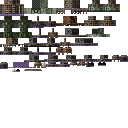
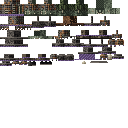
revenant: the spike record says what was measured; legacy sheets put back
The review found the inner spike still adds 1.71 into the coif at stun_upper tick 0
(was 2.52), hidden under the pauldron_cap row. Two probes moving it outward were
worse (2.26, 2.15), so the 1 px shortening stays and the exemption and the review
doc now say reduced, not gone. art/troops/revenant_s2/s3.png are back at their
earlier bytes (install drift, not part of the fix).

diff --git a/docs/anim-rebuild/REVENANT-REVIEW.md b/docs/anim-rebuild/REVENANT-REVIEW.md
@@ -148,10 +148,15 @@ Kort chose to fix the recorded shoulder-spike debt in the model ("Shoulder spike
 spike)"). The inner spike of `right_spike2` (tiers II and III) is 1 px shorter: 1 x 2 x 1 in place of 1 x 3 x 1, its
 root where it was (`art/hand/revenant/build_revenant.py`). The outer spike and the left shoulder are unchanged.
 
-- stun_upper `coif into right_spike2` 2.52: gone. The clip's worst armour row is now `coif into pauldron_cap` 2.25 at
+- stun_upper `coif into right_spike2`: 2.52 down to 1.71 at tick 0 (the WARN line is 1.7), not gone. It is no longer
+  the clip's worst row, so the focus check does not print it (`fit_pairs.py --part right_spike2` does). Moving the
+  spike 1 px and 2 px outward made it worse (2.26, 2.15: the rest overlap goes and the slump still reaches it), so
+  the 1 px shortening stays. Found by the review (`review_modelfix_a.md`). The clip's worst armour row is now `coif into pauldron_cap` 2.25 at
   tick 4, which the spike row had hidden: the coif sinks into the tier III left pauldron plate in the slump. Three model
   probes (the cap's small spike 1 px out, its tall spike 1 px shorter, the plate's inner edge 1 px in) did not clear it;
   the last made it worse (2.48). The plate is not a spike, so it stays as it is and the exemption now names it.
 - Clips: byte-identical (the layer was re-run). Timing untouched. Scorecard 42 clips, 0 failing. Focus check 0 FAIL rows.
+- The legacy sheets `art/troops/revenant_s2.png` and `_s3.png` went into the first commit by mistake (drift the
+  `install` step writes); a follow-up commit put them back.
 - Rebuilt: the old-format model and its tier II and III textures (`install`), the geo, the rig json and the tier II and III
   geo textures (the atlas reflowed for the smaller box). Sheet: `work/modelfix/revenant_sheet.jpg`.
